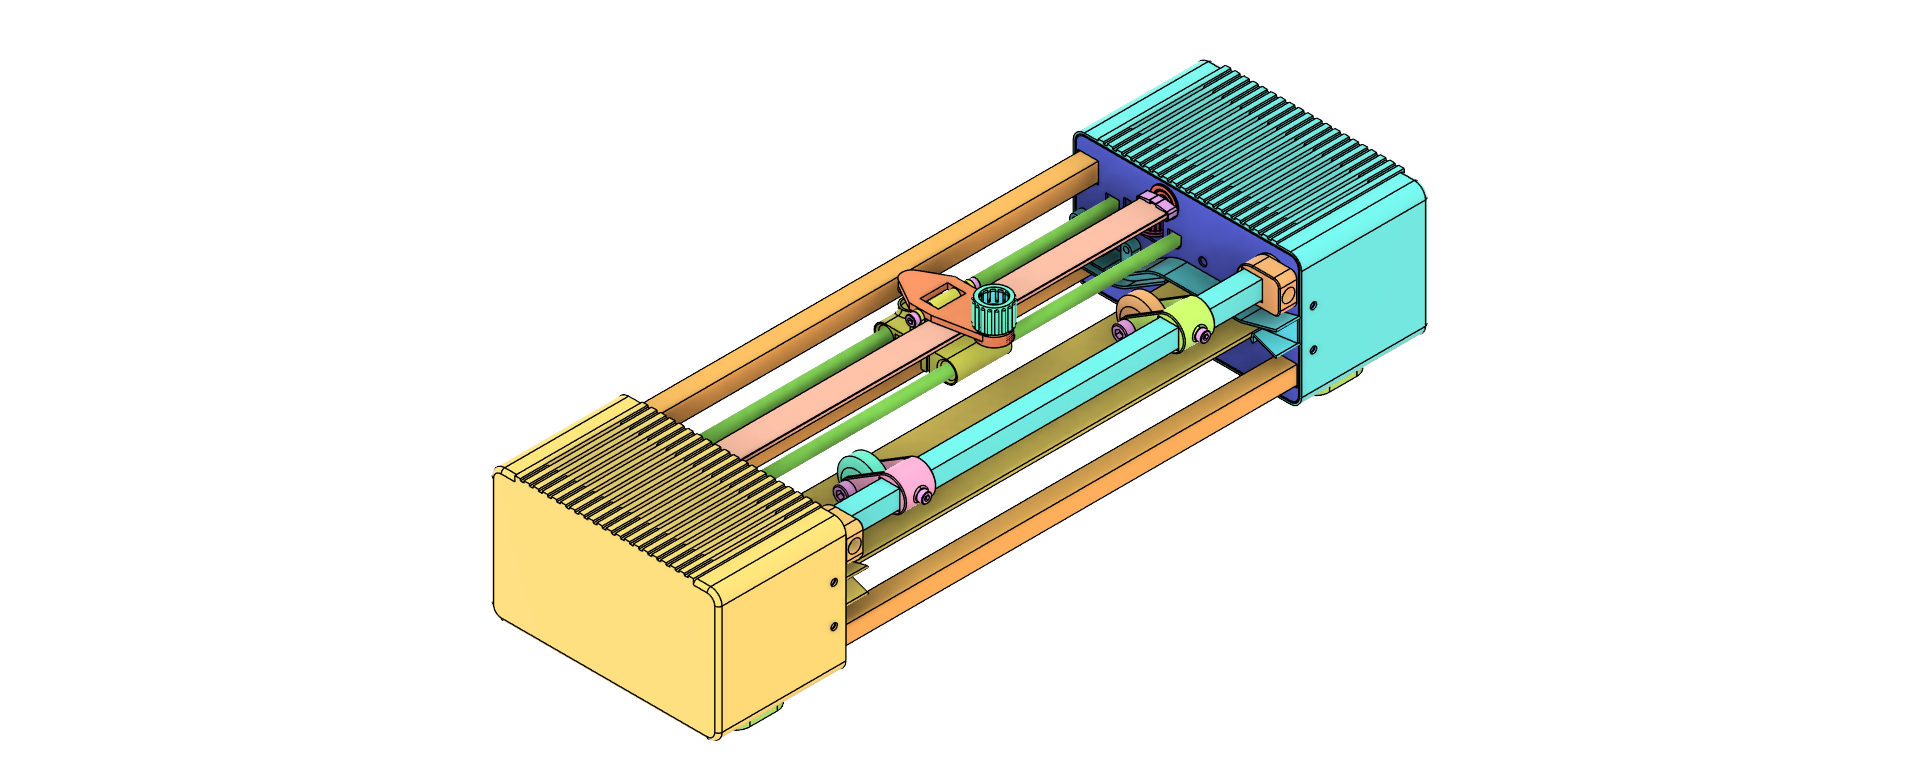
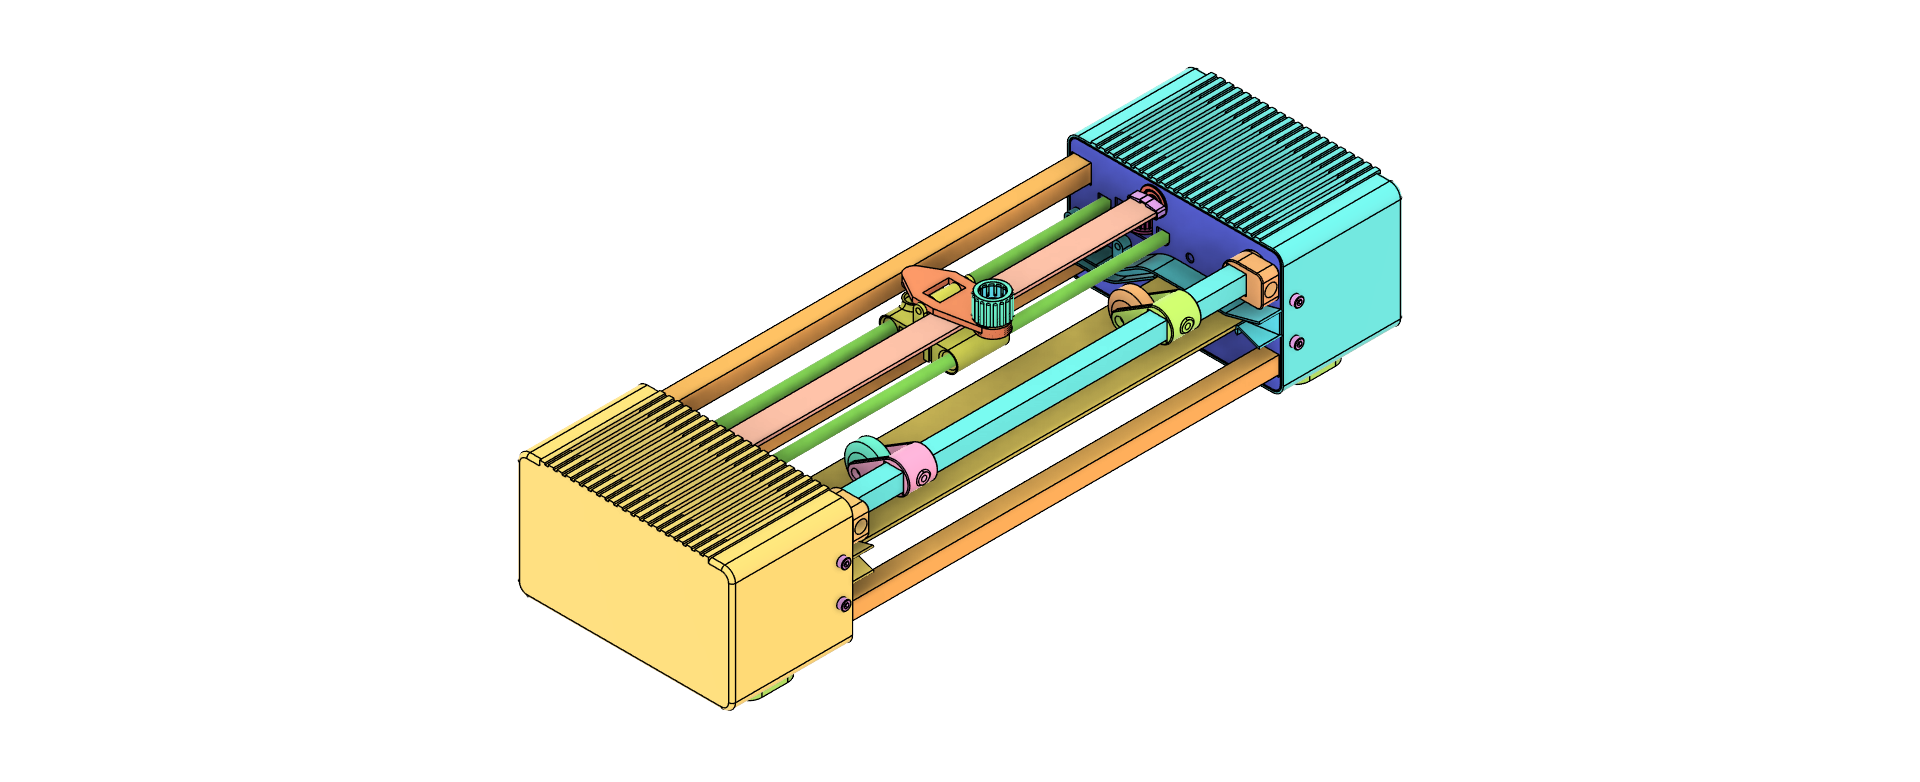
Added screws for housing to part list and rendering

Changed region(s): [[0.25, 0.0614, 0.75, 0.9514]]

diff --git a/README.md b/README.md
@@ -65,7 +65,7 @@ This plotter draws vector graphics in G-code format using a pen.
 | 1 | Timing Belt Idler Pulley, 5mm width | McMaster Part No: 3693N11 | 
 | 1 | hexagon socket screw, DIN EN ISO 4762 - M2 x 12 | For solenoid pin |
 | 1 | hexagon nut, DIN 439-2 - M2 x 0.4 | For solenoid pin |
-| 22 | hexagon socket screw, DIN EN ISO 4762 - M3 x 6 | Standard screw used unless otherwise specified |
+| 26 | hexagon socket screw, DIN EN ISO 4762 - M3 x 6 | Standard screw used unless otherwise specified |
 | 4 | hexagon socket screw, DIN EN ISO 4762 - M3 x 30 | For shaft stepper |
 | 10 | hexagon nut, DIN 439-2 - M3 x 0.6 | Insert into the front and back frame. |
 | 1 | threaded pin, DIN EN ISO 4027 - M4 x 16 | For timing belt idler |
@@ -80,8 +80,8 @@ This plotter draws vector graphics in G-code format using a pen.
 The following steps illustrate the assembly process. The order is chosen for clarity and may not reflect the optimal assembly sequence.
 
 
-Assemble the pen carriage, slide it over the rounded steel rods, and attach the timing pulley:
-<img src="./print/zsb/carriage.png.png">
+Assemble the pen carriage, slide it over the rounded steel rods, and attach the timing pulley. Make sure to fix the idler with the threaded pin:
+<img src="./print/zsb/carriage.png">
 <img src="./print/zsb/carriage_timing_belt.png">
 
 Overview of the base frame structure with supporting square rods:
